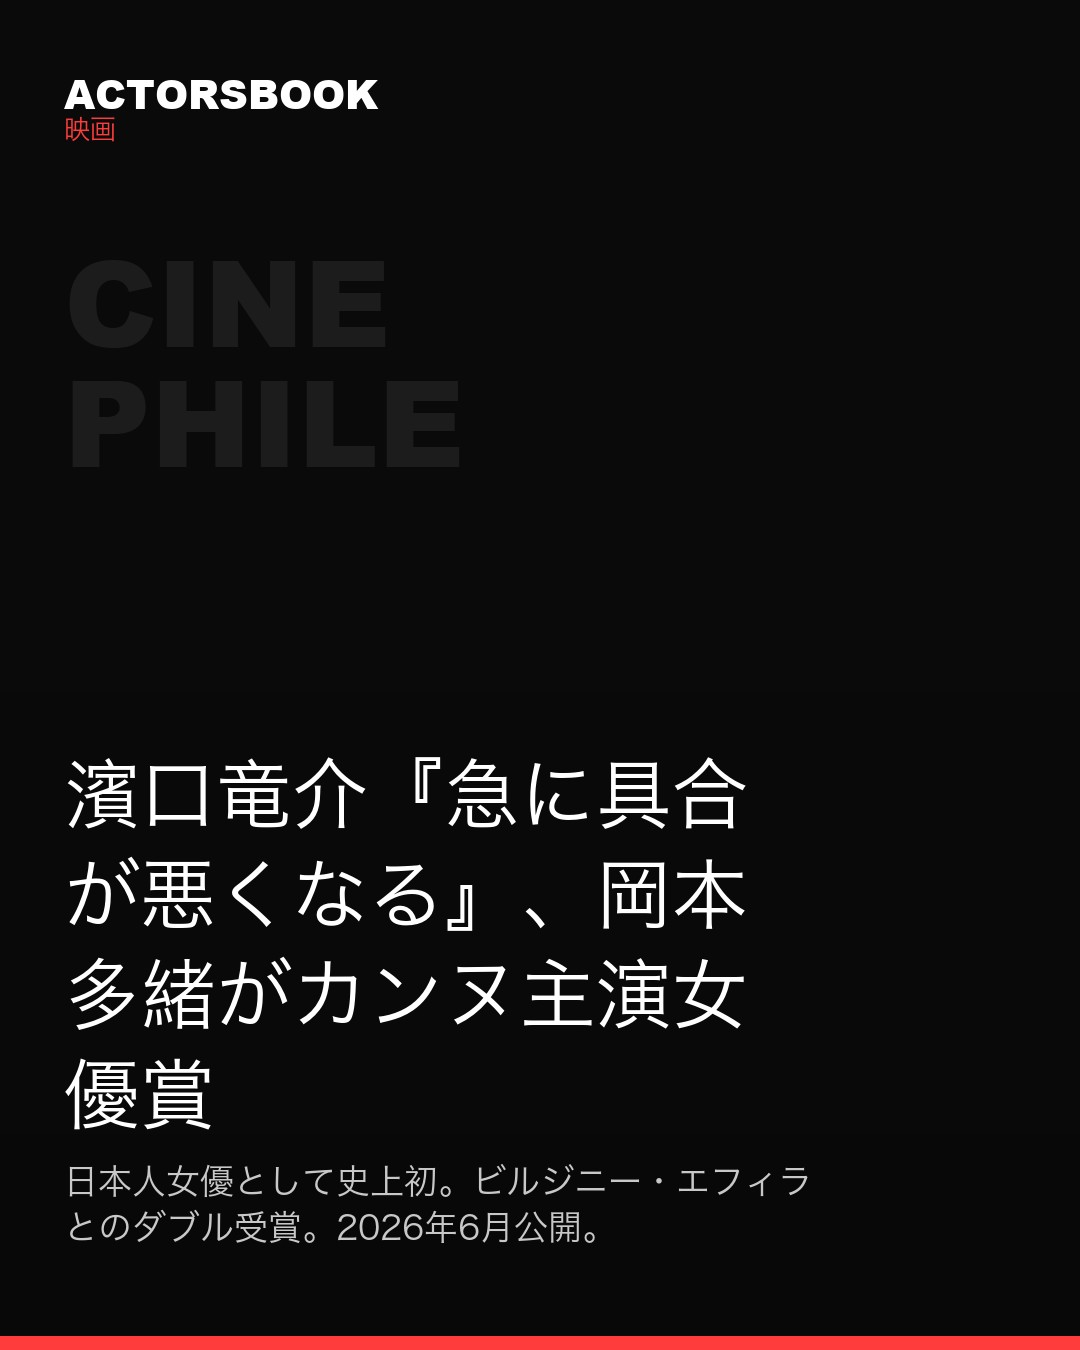
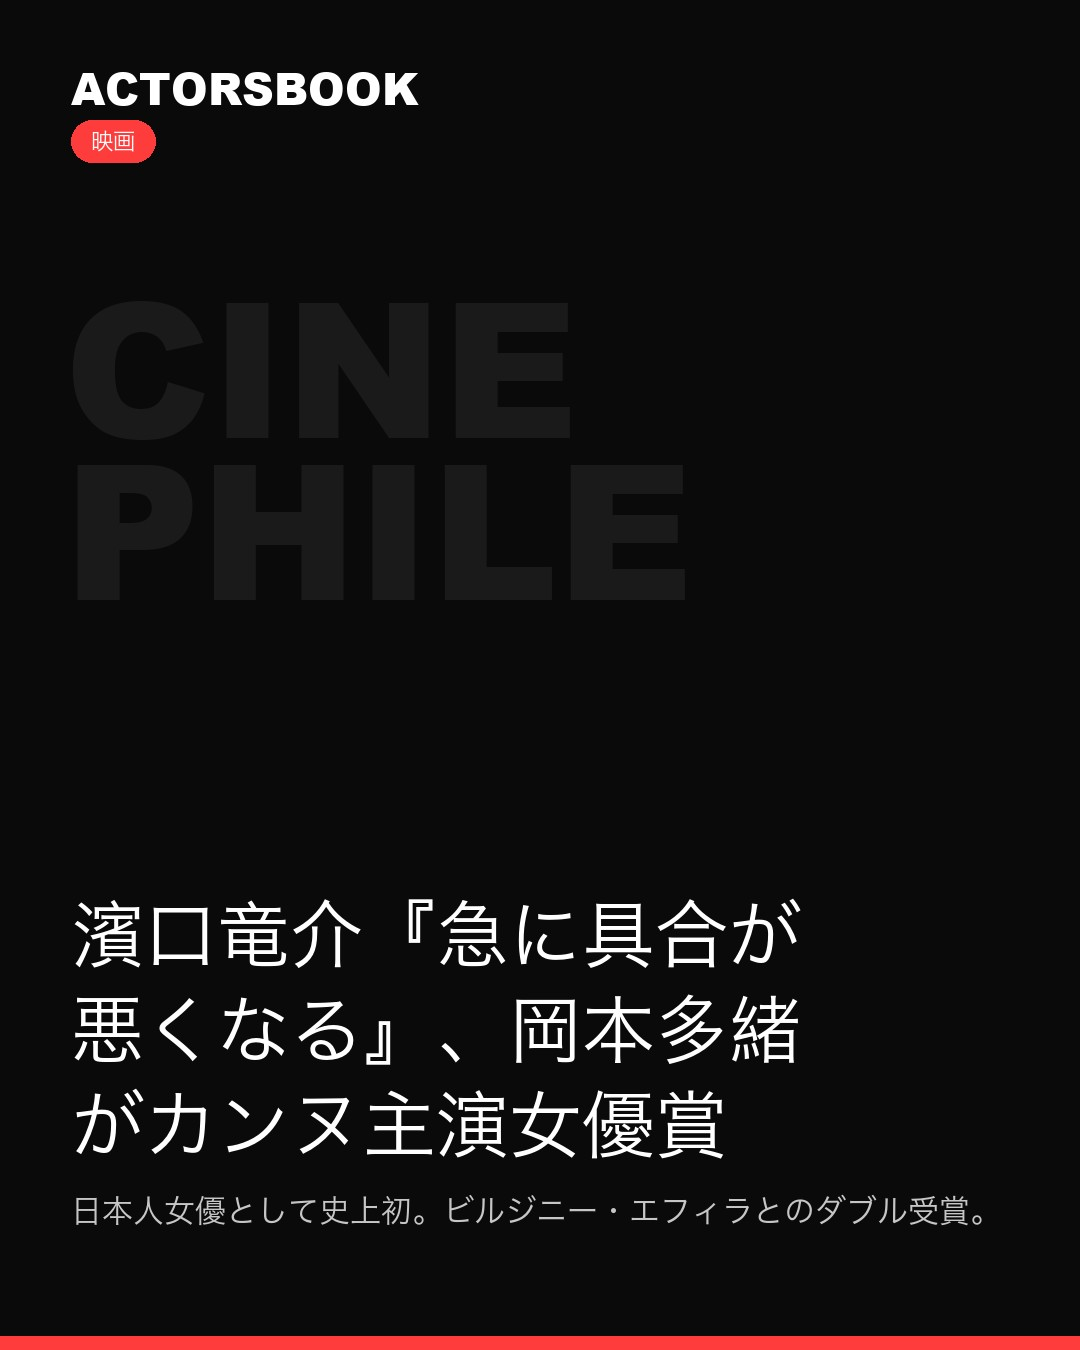
design: ニュースサムネのポスターテンプレを刷新（カテゴリ由来ゴースト＋赤ピル）
- make_assets.py: 表紙生成を build_cover() に統一。ACTORSBOOKマストヘッド＋
  カテゴリの赤ピル＋カテゴリ由来の巨大ゴースト・ワードマーク（映画=CINE/PHILE,
  本・書店=BIBLIO/PHILE, ストリート=STREET, ファッション=MODE）＋下寄せ極太見出し。
  IGカルーセル表紙もこの共通テンプレに追従。`--thumbs` で既存サイトサムネを一括再生成。
- images/news/*.jpg: 既存7記事のサムネを新テンプレで再生成（news.jsonは不変更）。
- admin.html: CanvasのdrawThumbをPillow版と同一デザインに更新（将来の保存・
  ライブプレビューが一致）。
  ※本コミットには、既存の未コミットWIP（公開ボタンでX投稿画面を開く挙動）も
    admin.html上に同居しているため併せて記録（クライアント側のintentのみ・自動投稿なし）。

Changed region(s): [[0.0611, 0.56, 0.9167, 0.9333], [0.0611, 0.0311, 0.3972, 0.1244]]

diff --git a/news/admin.html b/news/admin.html
@@ -103,31 +103,51 @@ function currentThumbSrc(){
   if(url) return url;
   return (NEWS[sel]||{}).background||"";
 }
+// カテゴリ由来の巨大ゴースト・ワードマーク（黒背景時の"透かし"。Pillow版(make_assets.py)と一致）
+const GHOST={"映画":["CINE","PHILE"],"本・書店":["BIBLIO","PHILE"],"ストリート":["STREET"],"ファッション":["MODE"]};
+function _pillCanvas(ctx,x,y,text,fontPx){
+  ctx.textBaseline="top";
+  ctx.font="700 "+fontPx+"px 'Hiragino Kaku Gothic ProN','Hiragino Sans',sans-serif";
+  const padx=20,pady=10, tw=ctx.measureText(text).width, w=tw+padx*2, h=fontPx+pady*2;
+  ctx.fillStyle="#ff3c3c";
+  if(ctx.roundRect){ctx.beginPath();ctx.roundRect(x,y,w,h,h/2);ctx.fill();} else {ctx.fillRect(x,y,w,h);}
+  ctx.fillStyle="#fff"; ctx.fillText(text,x+padx,y+pady);
+  return x+w;
+}
+function _ghostCanvas(ctx,cat){
+  const words=(GHOST[cat]||["CINE","PHILE"]).slice(0,2);
+  ctx.fillStyle="#1a1a1a"; ctx.textBaseline="top";
+  ctx.font="900 189px 'Helvetica Neue',Arial,sans-serif";
+  let y=230; words.forEach(w=>{ctx.fillText(w,65,y); y+=162;});
+}
 function drawThumb(){
   const c=document.getElementById("bgprev"); if(!c||!c.getContext) return;
   const ctx=c.getContext("2d"); const W=1080,H=1350;
   const head=(document.getElementById("f_head")||{}).value||"";
   const dek=(document.getElementById("f_dek")||{}).value||"";
   const cat=(document.getElementById("f_cat")||{}).value||"映画";
-  const overlay=()=>{
-    ctx.fillStyle="rgba(0,0,0,0.30)"; ctx.fillRect(0,0,W,H);
-    const g=ctx.createLinearGradient(0,H*0.40,0,H); g.addColorStop(0,"rgba(0,0,0,0)"); g.addColorStop(1,"rgba(0,0,0,0.9)"); ctx.fillStyle=g; ctx.fillRect(0,0,W,H);
+  const overlay=(hasPhoto)=>{
+    if(hasPhoto){
+      ctx.fillStyle="rgba(0,0,0,0.30)"; ctx.fillRect(0,0,W,H);
+      const g=ctx.createLinearGradient(0,H*0.42,0,H); g.addColorStop(0,"rgba(0,0,0,0)"); g.addColorStop(1,"rgba(0,0,0,0.92)"); ctx.fillStyle=g; ctx.fillRect(0,0,W,H);
+    } else { _ghostCanvas(ctx,cat); }
     ctx.textBaseline="top";
-    ctx.fillStyle="#fff"; ctx.font="800 40px 'Helvetica Neue',Arial,sans-serif"; ctx.fillText("ACTORSBOOK",64,60);
-    ctx.fillStyle="#ff3c3c"; ctx.font="700 26px 'Hiragino Kaku Gothic ProN','Hiragino Sans',sans-serif"; ctx.fillText(cat,64,108);
-    ctx.fillStyle="#fff"; ctx.font="800 82px 'Hiragino Kaku Gothic ProN','Hiragino Sans',sans-serif";
-    const lines=_wrapCanvas(ctx,head,W-128); const lh=100; let y=H-150-lh*lines.length;
-    lines.forEach(l=>{ctx.fillText(l,64,y);y+=lh;});
-    if(dek){ctx.fillStyle="#cfcfcf"; ctx.font="400 30px 'Hiragino Kaku Gothic ProN','Hiragino Sans',sans-serif"; ctx.fillText(dek.slice(0,26),64,y+12);}
+    ctx.fillStyle="#fff"; ctx.font="900 44px 'Helvetica Neue',Arial,sans-serif"; ctx.fillText("ACTORSBOOK",71,56);
+    _pillCanvas(ctx,71,120,cat,25);
+    ctx.fillStyle="#fff"; ctx.font="800 80px 'Hiragino Kaku Gothic ProN','Hiragino Sans',sans-serif";
+    const lines=_wrapCanvas(ctx,head,W-142); const lh=95;
+    let y=H-Math.round(H*0.085)-lh*lines.length-(dek?54:0);
+    lines.forEach(l=>{ctx.fillText(l,71,y);y+=lh;});
+    if(dek){ctx.fillStyle="#c6c6c6"; ctx.font="400 31px 'Hiragino Kaku Gothic ProN','Hiragino Sans',sans-serif"; ctx.fillText(dek.slice(0,30),71,y+12);}
     ctx.fillStyle="#ff3c3c"; ctx.fillRect(0,H-14,W,14);
   };
   ctx.clearRect(0,0,W,H); ctx.fillStyle="#0a0a0a"; ctx.fillRect(0,0,W,H);
   const src=currentThumbSrc();
   if(src){
     const im=new Image(); im.crossOrigin="anonymous";
-    im.onload=()=>{ctx.fillStyle="#0a0a0a";ctx.fillRect(0,0,W,H);_coverDraw(ctx,im,W,H);overlay();};
-    im.onerror=overlay; im.src=src;
-  } else overlay();
+    im.onload=()=>{ctx.fillStyle="#0a0a0a";ctx.fillRect(0,0,W,H);_coverDraw(ctx,im,W,H);overlay(true);};
+    im.onerror=()=>overlay(false); im.src=src;
+  } else overlay(false);
 }
 
 // ---- utils ----
@@ -249,7 +269,7 @@ function renderEditor(){
       <button class="save" id="save">保存</button>
       ${isPub
         ? '<button class="pubbtn unpub" id="pubtoggle">非公開にする</button>'
-        : '<button class="pubbtn pub" id="pubtoggle">公開する</button>'}
+        : '<button class="pubbtn pub" id="pubtoggle">公開する（＋X投稿画面）</button>'}
       <a class="view" href="/news/article.html?id=${encodeURIComponent(a.id)}" target="_blank">プレビュー ↗</a>
       <span class="status" id="status"></span>
     </div>`;
@@ -264,7 +284,7 @@ function renderEditor(){
   const ch=document.getElementById("f_cat"); if(ch) ch.onchange=()=>drawThumb();
   drawThumb();  // 初期表示
   document.getElementById("save").onclick=()=>save();               // 状態は変えず保存
-  document.getElementById("pubtoggle").onclick=()=>save(isPub?"draft":"published"); // 公開/非公開の切替
+  document.getElementById("pubtoggle").onclick=publishToggle;       // 公開/非公開の切替（公開時はXにも投稿）
   document.getElementById("postx").onclick=()=>postSNS("x");
   document.getElementById("postig").onclick=()=>postSNS("instagram");
 }
@@ -312,7 +332,7 @@ async function save(statusOverride){
     if(!resp.ok){
       if(resp.status===401){ setStatus("⚠ パスワードが違います。ログアウトして入れ直してください。","err"); }
       else{ setStatus("⚠ "+(data.error||("失敗 "+resp.status)),"err"); }
-      if(btn) btn.disabled=false; return;
+      if(btn) btn.disabled=false; return false;
     }
     if(data.background) a.background=data.background;
     NEWS[sel]=a; pendingFile=null; renderList(); renderEditor();  // 再描画でボタンが公開⇄非公開に切替わる
@@ -320,7 +340,20 @@ async function save(statusOverride){
       statusOverride==="published" ? "✓ 公開しました。1分ほどで反映されます。"
       : statusOverride==="draft"   ? "✓ 非公開にしました。1分ほどで反映されます。"
       : "✓ 保存しました。1分ほどで反映されます。", "ok");
-  }catch(e){ setStatus("⚠ "+e.message,"err"); if(btn) btn.disabled=false; }
+    return true;
+  }catch(e){ setStatus("⚠ "+e.message,"err"); if(btn) btn.disabled=false; return false; }
+}
+
+// 公開/非公開の切替。「公開する」時は保存成功後に自動でXの投稿画面を開く（キー不要・凍結リスクなし）
+async function publishToggle(){
+  const isPub=NEWS[sel] && NEWS[sel].status!=='draft';
+  if(isPub){ save("draft"); return; }              // 非公開化ではSNS投稿しない
+  // ポップアップブロック回避：クリック直後にタブを確保 → 保存成功後にX投稿画面へ飛ばす
+  const xt=(document.getElementById("f_xtext")||{}).value||"";
+  const win=xt ? window.open("about:blank","_blank") : null;
+  const ok=await save("published");
+  if(ok && win){ win.location.href="https://x.com/intent/post?text="+encodeURIComponent(xt); }
+  else if(win){ win.close(); }
 }
 
 // SNS投稿ボタン

diff --git a/scripts/make_assets.py b/scripts/make_assets.py
@@ -108,6 +108,82 @@ def _header(d, W, dark, cat, num=None, total=None):
                font=_font(LAT, 24), fill=(150, 150, 150))
 
 
+# カテゴリ由来の巨大ゴースト・ワードマーク（背景の"透かし"。カテゴリごとに絵柄が変わる）
+GHOST = {
+    "映画": ["CINE", "PHILE"],
+    "本・書店": ["BIBLIO", "PHILE"],
+    "ストリート": ["STREET"],
+    "ファッション": ["MODE"],
+}
+
+
+def _pill(d, x, y, text, font, fill=RED, tcol=(255, 255, 255), padx=20, pady=10):
+    """角丸の"ピル"バッジを描き、右端X座標を返す。"""
+    l, t, r, b = d.textbbox((0, 0), text, font=font)
+    tw, th = r - l, b - t
+    x1, y1 = x + tw + padx * 2, y + th + pady * 2
+    d.rounded_rectangle([x, y, x1, y1], radius=(y1 - y) // 2, fill=fill)
+    d.text((x + padx - l, y + pady - t), text, font=font, fill=tcol)
+    return x1
+
+
+def _draw_ghost(d, cat, W, H):
+    """黒背景のとき、カテゴリ由来の巨大ワードマークを極薄で敷く。"""
+    words = GHOST.get(cat, ["CINE", "PHILE"])[:2]
+    gf = _font(LAT, int(W * 0.175))
+    gh = int(W * 0.150)
+    m = int(W * 0.060)
+    y = int(H * 0.170)
+    for w in words:
+        d.text((m, y), w, font=gf, fill=(26, 26, 26))
+        y += gh
+
+
+def build_cover(rec, W, H, swipe=False):
+    """表紙(=サイトのサムネと共通)。写真があれば写真+黒スモーク、無ければ黒+ゴースト。"""
+    bg = _load_bg(rec)
+    has_photo = bg is not None
+    cat = rec.get("category", "映画")
+    if has_photo:
+        img, d = _cover_base(rec, W, H)
+    else:
+        img, d = _base(W, H, True)
+        _draw_ghost(d, cat, W, H)
+    m = int(W * 0.066)
+    # マストヘッド ＋ カテゴリのピル
+    d.text((m, int(W * 0.052)), "ACTORSBOOK", font=_font(LAT, int(W * 0.041)),
+           fill=(255, 255, 255))
+    _pill(d, m, int(W * 0.052) + int(W * 0.041) + 20, cat,
+          _font(JP, int(W * 0.023), index=JP_BOLD_IDX))
+    # 見出し（下寄せ・特大）
+    hf = _font(JP, int(W * 0.074), index=JP_BOLD_IDX)
+    lines = _wrap(rec.get("headline", ""), 10)[:5]
+    lh = int(W * 0.088)
+    dek = (rec.get("dek") or "").strip()
+    y = H - int(H * 0.085) - lh * len(lines) - (int(W * 0.050) if dek else 0)
+    for ln in lines:
+        d.text((m, y), ln, font=hf, fill=(255, 255, 255)); y += lh
+    if dek:
+        df = _font(JP, int(W * 0.029))
+        dl = _wrap(dek, 30)[:1]
+        d.text((m, y + 12), (dl[0] if dl else dek), font=df, fill=(198, 198, 198))
+    if swipe:
+        d.text((W - int(W * 0.25), H - int(H * 0.075)), "SWIPE →",
+               font=_font(LAT, 30), fill=(255, 255, 255))
+    d.rectangle([0, H - 14, W, H], fill=RED)
+    return img, d
+
+
+def write_thumb(rec):
+    """サイト用サムネ(1080x1350)を images/news/<id>.jpg に生成し、パスを返す。"""
+    W, H = 1080, 1350
+    img, _ = build_cover(rec, W, H, swipe=False)
+    out = ROOT / "images" / "news" / f"{rec['id']}.jpg"
+    out.parent.mkdir(parents=True, exist_ok=True)
+    img.save(out, "JPEG", quality=90)
+    return f"/images/news/{rec['id']}.jpg"
+
+
 def build_slides(rec, size):
     """記事から全スライド画像を生成して返す（表紙→本文→アウトロ）。"""
     W, H = size
@@ -117,19 +193,8 @@ def build_slides(rec, size):
     total = 1 + len(paras) + 1
     slides = []
 
-    # 表紙（背景画像があれば画像+黒スモーク、無ければ黒。見出し下寄せ）
-    img, d = _cover_base(rec, W, H)
-    _header(d, W, True, cat)
-    hf = _font(JP, int(W * 0.076), index=JP_BOLD_IDX)
-    lines = _wrap(rec["headline"], 9)[:5]
-    lh = int(W * 0.09)
-    y = H - int(H * 0.11) - lh * len(lines)
-    for ln in lines:
-        d.text((m, y), ln, font=hf, fill=(255, 255, 255)); y += lh
-    if rec.get("dek"):
-        d.text((m, y + 14), rec["dek"], font=_font(JP, 30), fill=(200, 200, 200))
-    d.text((W - int(W * 0.25), H - int(H * 0.07)), "SWIPE →", font=_font(LAT, 30), fill=(255, 255, 255))
-    d.rectangle([0, H - 14, W, H], fill=RED)
+    # 表紙（サイトのサムネと共通テンプレ：カテゴリ・ゴースト＋下寄せ見出し。IGはSWIPE表示）
+    img, _d = build_cover(rec, W, H, swipe=True)
     slides.append(img)
 
     # 本文（白・大きく読める）
@@ -203,9 +268,28 @@ def main():
     ap.add_argument("--all-published", action="store_true",
                     help="公開済みで未生成の記事を一括生成")
     ap.add_argument("--seconds", type=float, default=2.8, help="動画の1枚あたり秒数")
+    ap.add_argument("--thumbs", action="store_true",
+                    help="サイト用サムネ(1080x1350)を再生成（--id か 全記事）")
     args = ap.parse_args()
 
     news = json.loads(NEWS_JSON.read_text(encoding="utf-8"))
+
+    # サイト用サムネの一括再生成（テンプレ改良を既存記事へ反映）
+    if args.thumbs:
+        pool = news if not args.id else [r for r in news
+                                         if r["id"] == args.id or r["id"].startswith(args.id)]
+        changed = False
+        for rec in pool:
+            path = write_thumb(rec)
+            # 既にthumbnailを持つ記事のみパス更新（下書きに新フィールドを足してnews.jsonを汚さない）
+            if rec.get("thumbnail") and rec.get("thumbnail") != path:
+                rec["thumbnail"] = path; changed = True
+            print(f"サムネ生成: {rec['headline'][:26]} → {path}")
+        if changed:
+            NEWS_JSON.write_text(json.dumps(news, ensure_ascii=False, indent=2), encoding="utf-8")
+        print(f"完了: {len(pool)}件のサムネを再生成。")
+        return
+
     if args.all_published:
         targets = [r for r in news if r.get("status") == "published" and not r.get("assets_ready")]
     elif args.id:
